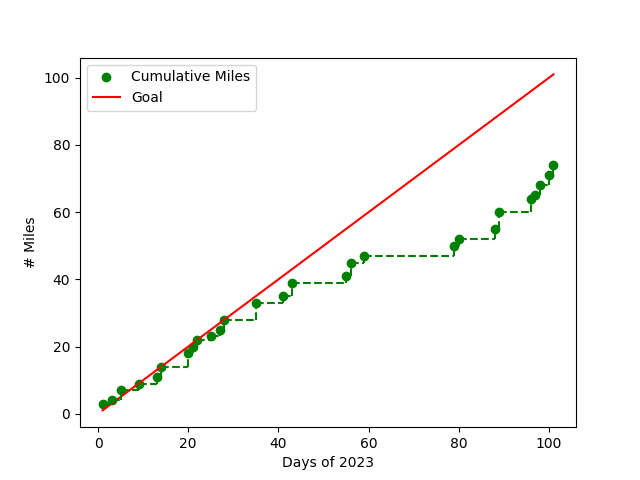
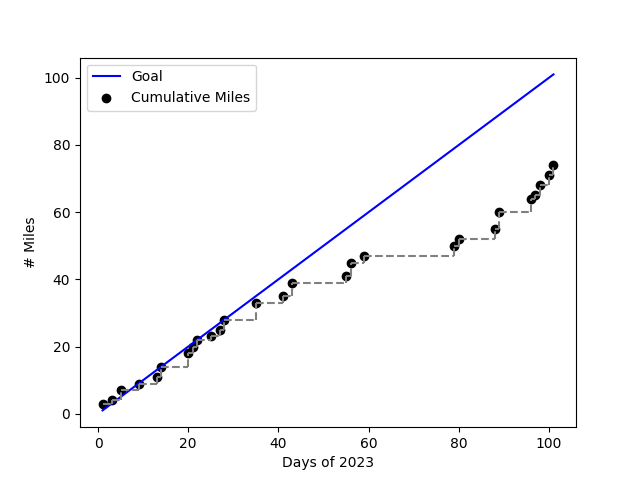
Change color scheme

diff --git a/progress.py b/progress.py
@@ -21,15 +21,15 @@ maximum = max(total_miles_lst+days)
 
 # Plot Cumulative Miles
 
-plot_cumulative = False
+plot_cumulative = True
 
 if plot_cumulative:
-    plt.scatter(days, total_miles_lst, color='g', label='Cumulative Miles')
-    plt.plot((1,maximum),(1, maximum), color='r', label='Goal')
+    plt.plot((1,maximum),(1, maximum), color='b', label='Goal')
     for i in range(0, len(total_miles_lst)-1):
         # plt.plot((days[i],days[i+1]), (total_miles_lst[i],total_miles_lst[i+1]), linestyle='dashed',color='g')
-        plt.plot((days[i],days[i+1]), (total_miles_lst[i],total_miles_lst[i]), linestyle='dashed',color='g')
-        plt.plot((days[i+1],days[i+1]), (total_miles_lst[i],total_miles_lst[i+1]), linestyle='dashed',color='g')
+        plt.plot((days[i],days[i+1]), (total_miles_lst[i],total_miles_lst[i]), linestyle='dashed',color='gray')
+        plt.plot((days[i+1],days[i+1]), (total_miles_lst[i],total_miles_lst[i+1]), linestyle='dashed',color='gray')
+    plt.scatter(days, total_miles_lst, color='k', label='Cumulative Miles')
     plt.xlabel('Days of 2023')
     plt.ylabel('# Miles')
     plt.legend()
@@ -44,12 +44,12 @@ if plot_difference:
     diff = []
     for i in range(0, len(total_miles_lst)):
         diff.append(days[i] - total_miles_lst[i])
-    plt.scatter(days, diff, color='k', label='Runs')
     for i in range(len(diff)):
         color = 'g'
         if diff[i] > 0:
             color='r'
         plt.plot((days[i],days[i]), (0,diff[i]), linestyle='dashed',color=color)
+    plt.scatter(days, diff, color='k', label='Runs')
     plt.axhline(0, color='b', label='Goal')
     plt.xlabel('Days of 2023')
     plt.ylabel('# Miles Away from Goal')
